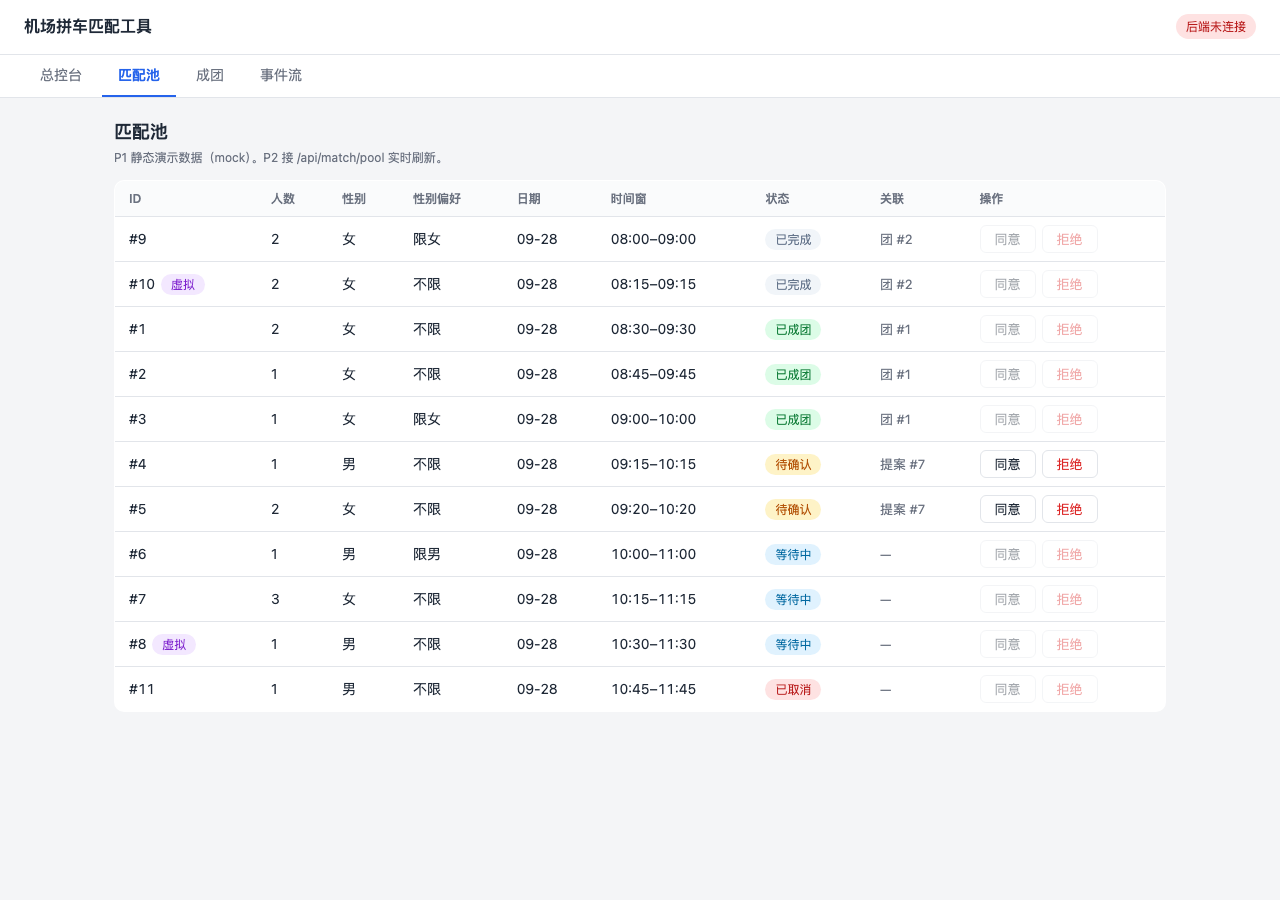
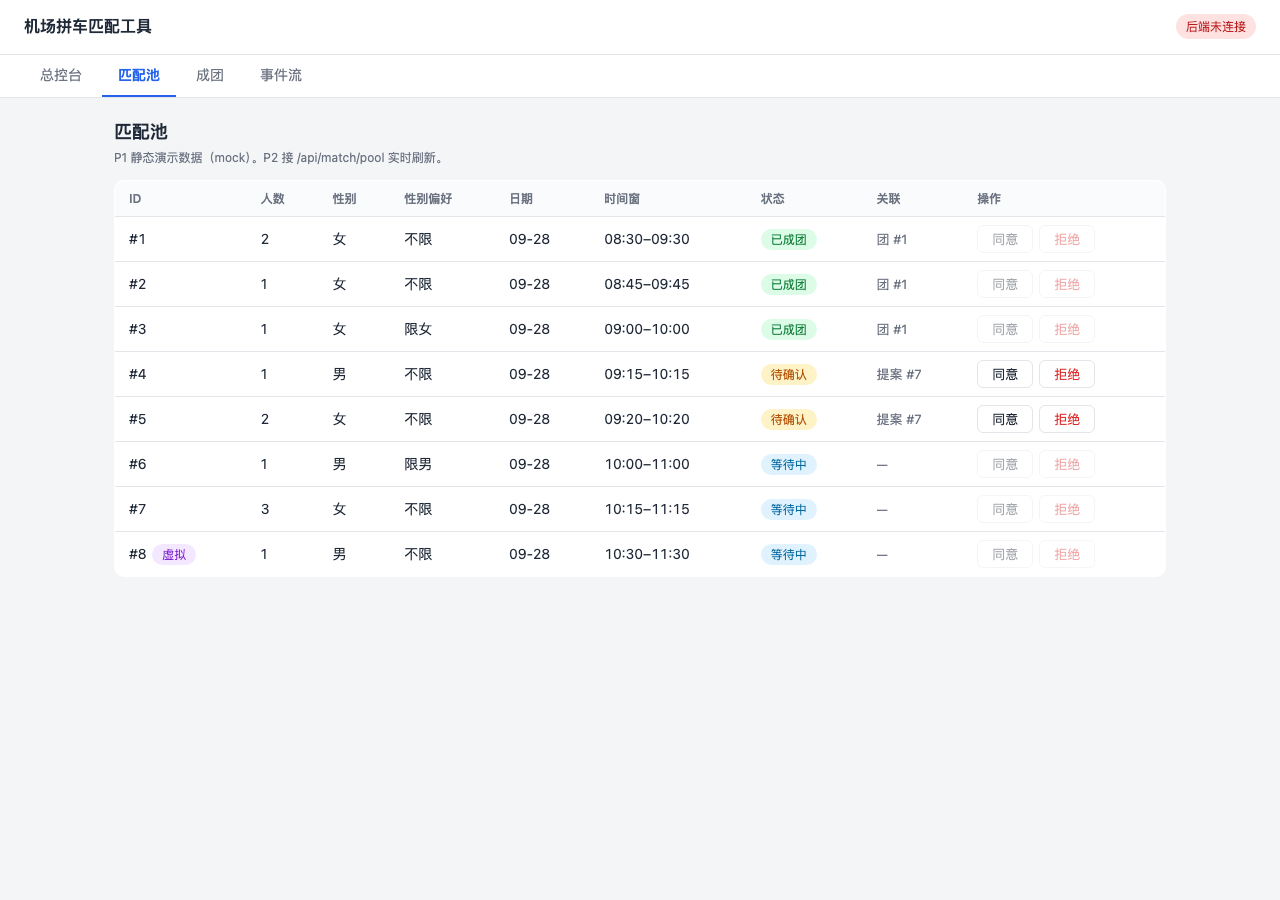
docs(contract): FR-10 放宽、FR-11 明确，前端 mock 同步 + G1 证据更新

diff --git a/frontend/src/mock.js b/frontend/src/mock.js
@@ -1,4 +1,6 @@
 // mock.js：P1 静态视图假数据。字段名与 docs/contract.md §1「乘客字段」逐字一致。
+// 范围与 v1.0 草案 FR-10/FR-11 对齐：池 = 非终态乘客（waiting/proposed/grouped），
+// groups = 仅进行中的团（completed / dissolved 即时移除）。
 // 数据语义按契约规则手工校验：
 //   · 时间窗重叠才可同车：max(成员 start_min) ≤ min(成员 end_min)
 //   · depart_min = max(成员 start_min)
@@ -7,18 +9,8 @@
 // TODO(P2): 后端 17 端点可用后删除本文件，视图改接 api.pool() / api.groups()。
 
 // 匹配池：按 start_min 升序（契约 FR-10 的排序规则）。
-// 覆盖全部 5 种 status 与 3 种 gender_preference，便于静态演示状态标签与按钮禁用态。
+// 覆盖 3 种非终态 status：grouped（1-3 团 #1）、proposed（4-5 提案 #7）、waiting（6-8）。
 export const mockPool = [
-  {
-    passenger_id: 9, party_size: 2, gender: 'female', gender_preference: 'female_only',
-    date: '2026-09-28', start_min: 480, end_min: 540,
-    status: 'completed', proposal_id: null, group_id: 2, is_virtual: false,
-  },
-  {
-    passenger_id: 10, party_size: 2, gender: 'female', gender_preference: 'none',
-    date: '2026-09-28', start_min: 495, end_min: 555,
-    status: 'completed', proposal_id: null, group_id: 2, is_virtual: true,
-  },
   {
     passenger_id: 1, party_size: 2, gender: 'female', gender_preference: 'none',
     date: '2026-09-28', start_min: 510, end_min: 570,
@@ -59,16 +51,10 @@ export const mockPool = [
     date: '2026-09-28', start_min: 630, end_min: 690,
     status: 'waiting', proposal_id: null, group_id: null, is_virtual: true,
   },
-  {
-    passenger_id: 11, party_size: 1, gender: 'male', gender_preference: 'none',
-    date: '2026-09-28', start_min: 645, end_min: 705,
-    status: 'cancelled', proposal_id: null, group_id: null, is_virtual: false,
-  },
 ]
 
-// 已成团（契约 group 对象：group_id / member_ids / depart_min / formed_at_ms）。
-// 团 1 满车 4 人、团 2 已完成；formed_at 用本地时区解析，演示时间显示。
+// 进行中的成团（契约 group 对象：group_id / member_ids / depart_min / formed_at_ms）。
+// 团 1 满车 4 人；completed/dissolved 的团不在此列（FR-11 即时移除）。
 export const mockGroups = [
   { group_id: 1, member_ids: [1, 2, 3], depart_min: 540, formed_at_ms: Date.parse('2026-09-28T08:50:00+08:00') },
-  { group_id: 2, member_ids: [9, 10], depart_min: 495, formed_at_ms: Date.parse('2026-09-28T08:00:00+08:00') },
 ]

diff --git a/frontend/src/components/GroupCard.vue b/frontend/src/components/GroupCard.vue
@@ -13,8 +13,8 @@ const props = defineProps({
 // 总人数 = Σ party_size（契约 vehicle_capacity：每团 ≤ 4 人）
 const totalSize = computed(() => props.members.reduce((sum, m) => sum + m.party_size, 0))
 
-// 全员 completed 说明行程已结束，「完成」按钮禁用（契约 FR-14 只对行程中的团有效）
-const isCompleted = computed(() => props.members.every((m) => m.status === 'completed'))
+// 注：契约 FR-11 规定 /api/match/groups 仅返回进行中的团（completed/dissolved 即时移除），
+// 因此卡片不需要「已完成」状态判断，「完成」按钮恒可用。
 
 function onComplete() {
   // TODO(P2): await api.completeGroup(props.group.group_id) 后由父视图刷新列表
@@ -28,7 +28,6 @@ const GENDER_LABEL = { male: '男', female: '女' }
     <header class="card-head">
       <span class="gid">团 #{{ group.group_id }}</span>
       <span class="depart">出发 {{ fmtMin(group.depart_min) }}</span>
-      <span v-if="isCompleted" class="tag completed">已完成</span>
     </header>
     <ul class="members">
       <li v-for="m in members" :key="m.passenger_id">
@@ -39,7 +38,7 @@ const GENDER_LABEL = { male: '男', female: '女' }
     </ul>
     <footer class="card-foot">
       <span class="meta">共 {{ totalSize }} 人 · 成团于 {{ fmtTime(group.formed_at_ms) }}</span>
-      <button class="btn primary" :disabled="isCompleted" @click="onComplete">完成</button>
+      <button class="btn primary" @click="onComplete">完成</button>
     </footer>
   </article>
 </template>

diff --git a/frontend/src/views/GroupsView.vue b/frontend/src/views/GroupsView.vue
@@ -6,8 +6,8 @@ import GroupCard from '../components/GroupCard.vue'
 // TODO(P2): 接 api.groups()。
 
 // mock 阶段把 member_ids 展开成成员对象，卡片才能显示性别/人数等细节。
-// TODO(P2) 契约核对项：/api/match/groups 目前只回 member_ids，且没有「按 id 查乘客」的
-// GET 端点，真实联调时成员明细的数据来源需要与 A 确认（在 contract.md 冻结前敲定）。
+// TODO(P2): 接 api.pool() + api.groups()。契约 FR-10 已放宽为返回非终态乘客
+// （含 grouped），真实联调时用 pool 数据做与这里相同的 join 即可拿到成员明细。
 const groups = mockGroups.map((g) => ({
   ...g,
   members: g.member_ids.map((id) => mockPool.find((p) => p.passenger_id === id)),

diff --git a/frontend/src/views/PoolView.vue b/frontend/src/views/PoolView.vue
@@ -3,8 +3,8 @@
 // 字段名与 docs/contract.md §1 乘客字段逐字一致（P1 验收项）。
 import { mockPool } from '../mock'
 import { fmtMin, fmtDateShort } from '../format'
-// TODO(P2): 接 api.pool()。注意契约核对项：FR-10 的 pool 仅返回 waiting，
-// 而本视图还需展示 proposed 乘客（同意/拒绝按钮的落点），数据来源待与 A 确认。
+// TODO(P2): 接 api.pool()。FR-10 已调整为返回非终态乘客（waiting/proposed/grouped），
+// 同意/拒绝按钮落在 proposed 行，与契约 40901 状态冲突约束一致。
 
 // 枚举值 → 中文标签：映射表集中管理，改文案只动这里
 const STATUS_LABEL = {

diff --git a/docs/test_report.md b/docs/test_report.md
@@ -16,15 +16,15 @@
 
 | AC | 内容 | 结果 | 证据 |
 | --- | --- | --- | --- |
-| G1-1 | mock 字段名与 contract.md §1 完全一致 | 通过 | `frontend/src/mock.js` 逐字段核对；11 条乘客覆盖全部 5 种 status、3 种 gender_preference、is_virtual；同车时间窗重叠（max(start) ≤ min(end)）、depart_min = max(start)、每团 ≤4 人、偏好不满足不成团，均按契约规则手工校验 |
-| G1-2 | mock 数据渲染正确 | 通过 | `npm run dev` 后 Edge 无头浏览器 dump-dom：匹配池 9 列表头、11 行数据、状态标签计数与 mock 完全一致（waiting×3 / proposed×2 / grouped×3 / completed×2 / cancelled×1 / virtual×2）、时间窗转换全部正确、22 个按钮中仅 proposed 行 4 个可用；成团视图经 Vite SSR 渲染验证：团 #1/#2 两张卡片、总人数 computed 各 4 人、完成按钮 1 可用 1 禁用；截图见 [docs/images/G1_pool_view.png](images/G1_pool_view.png) |
+| G1-1 | mock 字段名与 contract.md §1 完全一致 | 通过 | `frontend/src/mock.js` 逐字段核对；8 条乘客覆盖 3 种非终态 status（waiting/proposed/grouped）、3 种 gender_preference、is_virtual；同车时间窗重叠（max(start) ≤ min(end)）、depart_min = max(start)、每团 ≤4 人、偏好不满足不成团，均按契约规则手工校验 |
+| G1-2 | mock 数据渲染正确 | 通过 | `npm run dev` 后 Edge 无头浏览器 dump-dom：匹配池 9 列表头、8 行数据、状态标签计数与 mock 完全一致（waiting×3 / proposed×2 / grouped×3 / virtual×1）、时间窗转换全部正确、16 个按钮中仅 proposed 行 4 个可用；成团视图经 Vite SSR 渲染验证：团 #1 卡片、总人数 computed 为 4 人；截图见 [docs/images/G1_pool_view.png](images/G1_pool_view.png) |
 | G1-3 | `npm run build` 退出码 0 | 通过 | `vite v8.3.1 building client environment for production... ✓ 26 modules transformed. ✓ built in 475ms`，exit 0 |
-| G1-4 | A/B 共同确认契约字段，A 的 P1 PR 将契约置 v1.0 / FROZEN | 待 A | — |
+| G1-4 | A/B 共同确认契约字段后冻结 v1.0 | 进行中 | 契约调整（FR-10 放宽、FR-11 明确）已由 B 写入 contract.md/contract.yaml，待 A 校对后置 FROZEN |
 
-> G1 备注（B 侧契约核对发现，冻结前需与 A 双人确认后改 contract.md，建议开 issue @A）：
-> 1. FR-10 `/api/match/pool` 仅返回 waiting，但 PoolView 需展示 proposed 乘客（同意/拒绝按钮的落点，见手册 §3），数据来源缺口；
-> 2. 无「按 id 查询乘客」的 GET 端点，`/api/match/groups` 响应仅 member_ids，成团卡片无法展示成员明细（性别/人数）；mock 已按明细渲染，接真实接口前需定方案；
-> 3. group 对象无 status 字段，已完成团的区分方式未约定（完成按钮禁用态依赖它）。
+> G1 备注（契约调整记录）：mock 先行阶段暴露 3 条契约缺口，经双人裁定已在 v1.0 草案中闭环（待 A 校对后冻结）：
+> 1. **FR-10 数据源缺口**（pool 仅返回 waiting，池视图无法展示 proposed 乘客）→ 已放宽：pool 返回非终态乘客 waiting/proposed/grouped；
+> 2. **无「按 id 查乘客」端点**（groups 仅 member_ids，卡片无成员明细）→ 由第 1 条解决：前端用 pool 数据 join（装配逻辑见 GroupsView）；
+> 3. **group 无 status**（已完成/已解散团的区分未约定）→ 已明确：FR-11 仅返回进行中的团，completed/dissolved 即时移除，无需状态字段。
 
 ## G2~G4 验收记录
 
